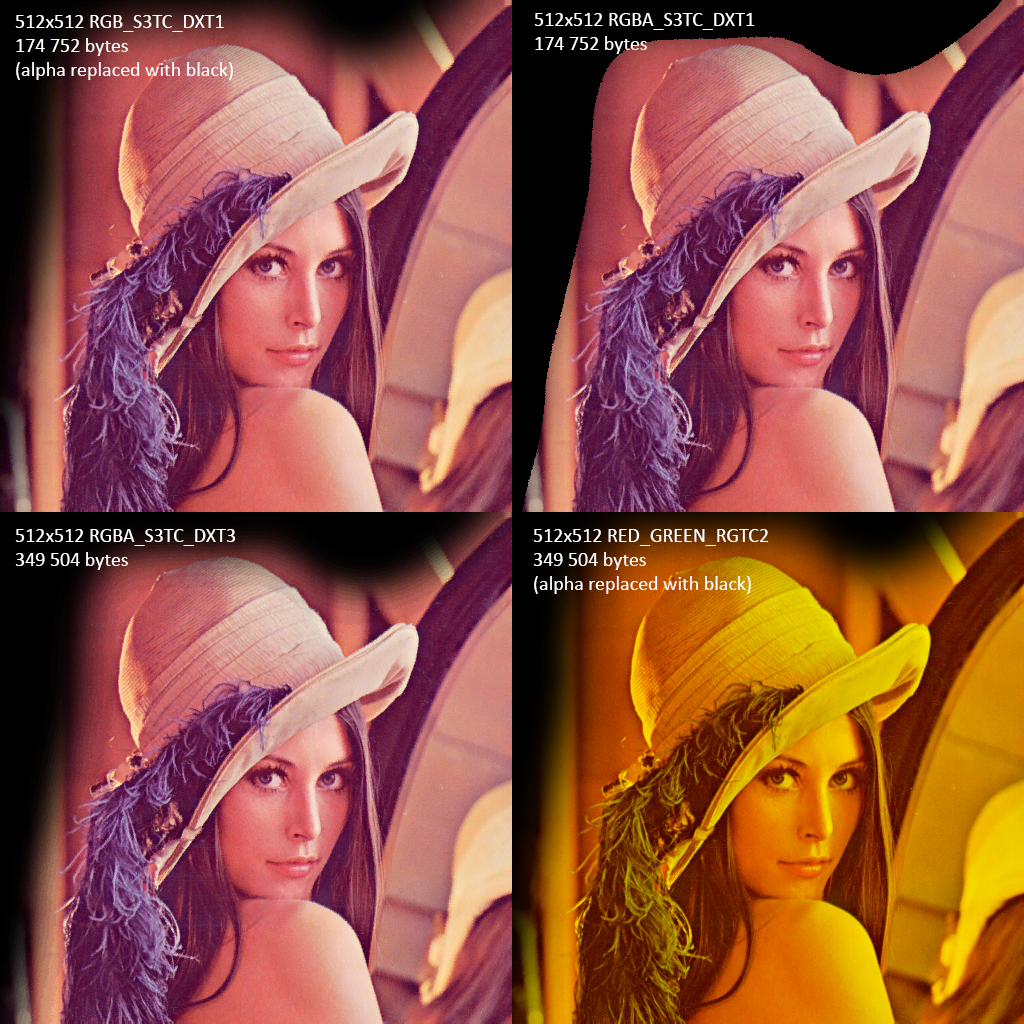
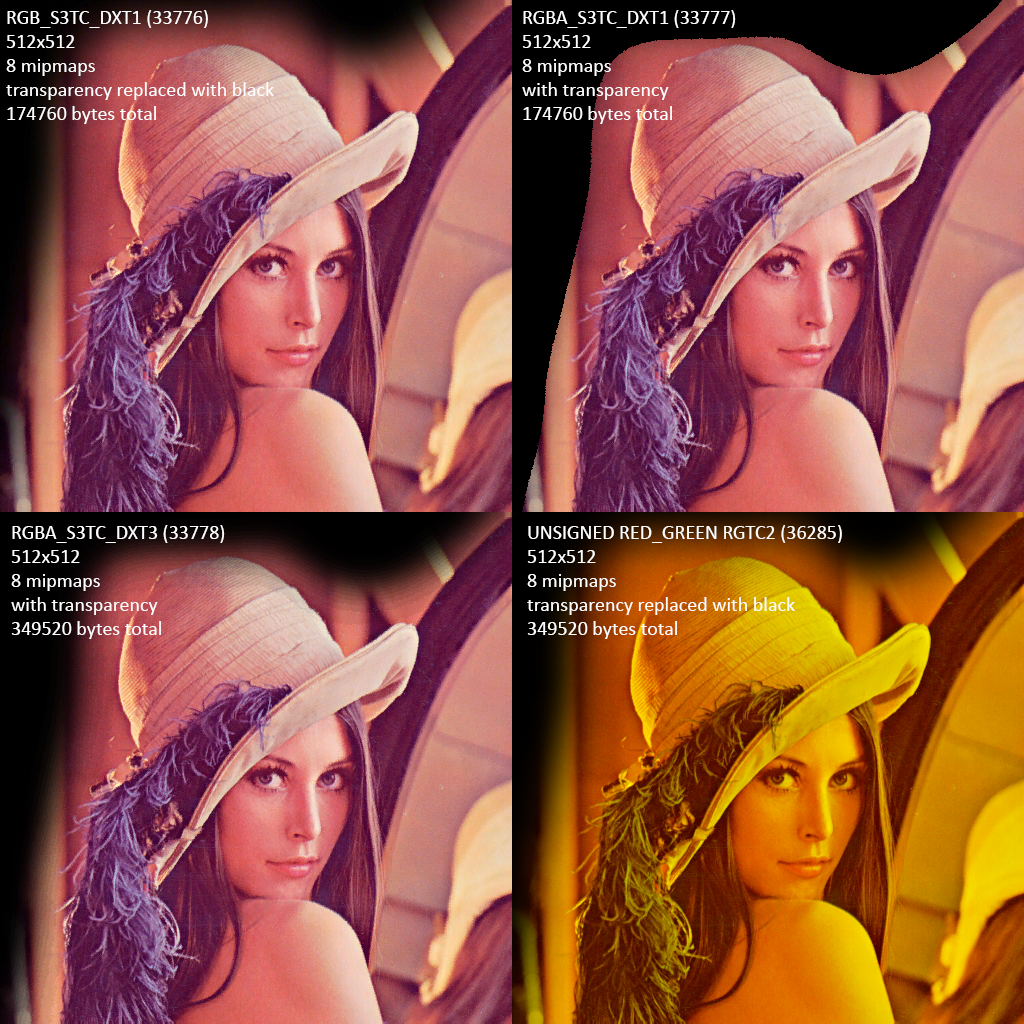
Fix mipmap levels

diff --git a/src/Compressor.cpp b/src/Compressor.cpp
@@ -77,7 +77,7 @@ Compressor::Compressor() : shader(SHADER_VERT, SHADER_FRAG, std::nullopt) {
 Compressor::~Compressor() = default;
 
 Compressor::Result Compressor::compress(const std::string& filename, const GLuint target, const GLsizei width) {
-    auto levels = static_cast<int>(std::log2(width)) - 2;
+    auto levels = static_cast<int>(std::log2(width)) - 1;
 
     // Load the source image
     int imgWidth, imgHeigth, imgChannels;
@@ -165,6 +165,7 @@ Compressor::Result Compressor::compress(const std::string& filename, const GLuin
 
         GLint compressedSize;
         glGetTexLevelParameteriv(GL_TEXTURE_2D, level, GL_TEXTURE_COMPRESSED_IMAGE_SIZE, &compressedSize);
+        std::cout << "Mipmap: " << level << " size: " << w << "x" << w << " bytes: " << compressedSize << std::endl;
         totalBytes += compressedSize;
 
         // std::vector<uint8_t> pixels;
